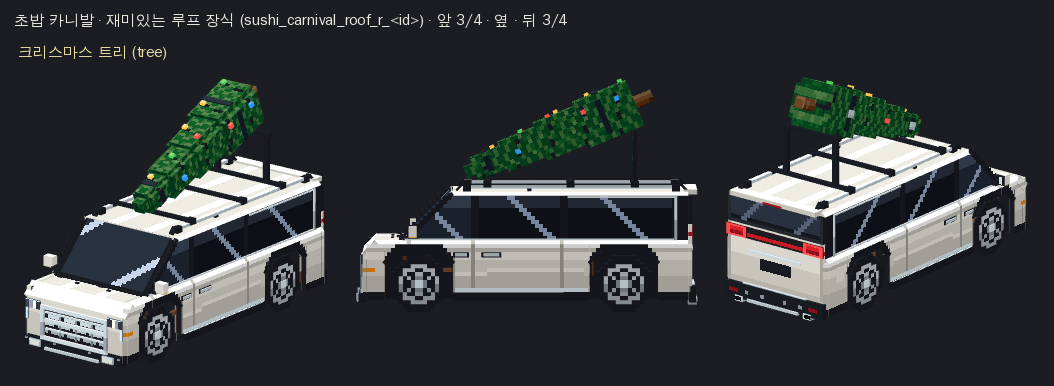
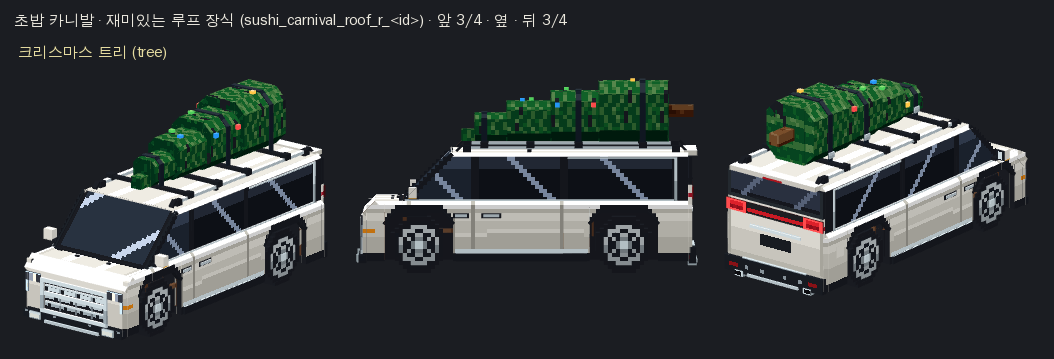
작업 중간 저장 (아직 jar 아님)
Claude-Session: https://claude.ai/code/session_01RZiBpXr9dauHCJtPMWBQ4s

Changed region(s): [[0.0, 0.1838, 0.9715, 0.9499], [0.0, 0.0306, 0.5465, 0.0919], [0.0, 0.1226, 0.1822, 0.1838]]

diff --git a/tools/assetgen/models/vehicle_roofs_fun.py b/tools/assetgen/models/vehicle_roofs_fun.py
@@ -707,10 +707,10 @@ def tree():
     _bars(m, TREE_BARS)
     pp = Paint("rf_pine", 3, noise=0, grad=0, rim=0.3, ao=0.4, decal=_pine_decal)
     n = 0
-    for h, z0, z1 in TIERS:
+    for i, (h, z0, z1) in enumerate(TIERS):
         c = round(h * 0.4 * 2) / 2
         cy = Y0 + h
-        y0, y1 = Y0, Y0 + 2 * h
+        y0, y1 = Y0 + 0.02 * i, Y0 + 2 * h          # (overlapping tiers' undersides a hair apart: no flicker)
         m.box("pine", (-h, y0 + c, z0), (h, y1 - c, z1), pp)
         m.box("pine", (-(h - c), y0, z0 - 0.25), (h - c, y1, z1 + 0.25), pp)
         for s in (-1, 1):
